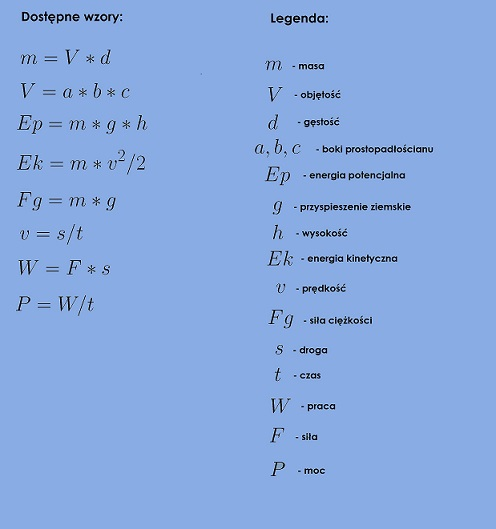
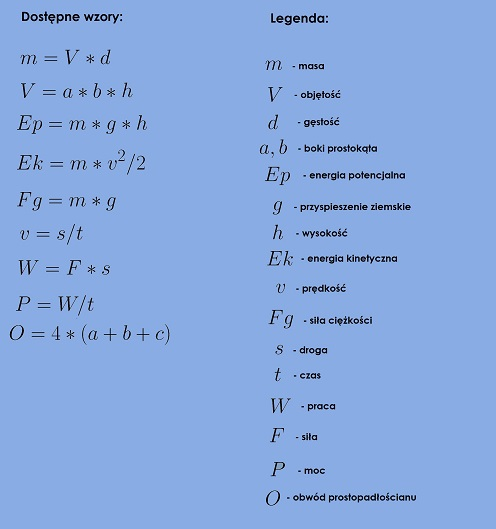
adding perimeter

diff --git a/out/production/FormulaTransformationDesktop/gui/styles.css b/out/production/FormulaTransformationDesktop/gui/styles.css
@@ -54,7 +54,7 @@
 }
 
 .text-area {
-    -fx-font-size: 25;
+    -fx-font-size: 18;
 }
 
 

diff --git a/src/gui/styles.css b/src/gui/styles.css
@@ -54,7 +54,7 @@
 }
 
 .text-area {
-    -fx-font-size: 25;
+    -fx-font-size: 18;
 }
 
 

diff --git a/src/formula/transformation/FormulaTransformer.java b/src/formula/transformation/FormulaTransformer.java
@@ -10,6 +10,7 @@ import java.util.List;
 import java.util.Map;
 
 
+import static formula.transformation.utility.FormulaBuilder.add;
 import static formula.transformation.utility.FormulaBuilder.arg;
 import static formula.transformation.utility.FormulaBuilder.constant;
 import static formula.transformation.utility.FormulaBuilder.div;
@@ -47,6 +48,9 @@ public class FormulaTransformer {
 
         Equalizer power = eq(arg("P"), div(arg("W"), arg("t")));
         formulas.put(Equation.POWER, power);
+
+        Equalizer perimeter = eq(arg("O"), mul(constant(4),add(add(arg("a"), arg("b")), arg("c"))));
+        formulas.put(Equation.PERIMETER, perimeter);
     }
 
     public Map<Equation, Equalizer> getFormulas() {

diff --git a/src/gui/Main.java b/src/gui/Main.java
@@ -14,7 +14,7 @@ public class Main extends Application {
         primaryStage.setTitle("Formula Transformation");
         primaryStage.setScene(new Scene(root, 1200, 900));
         root.getStylesheets().add(getClass().getResource("styles.css").toExternalForm());
-        //primaryStage.setResizable(false);
+        primaryStage.setResizable(false);
         primaryStage.show();
     }
 

diff --git a/src/formula/transformation/Equation.java b/src/formula/transformation/Equation.java
@@ -8,5 +8,6 @@ public enum Equation {
     GRAVITY_FORCE,
     UNIFORM_MOTION,
     WORK,
-    POWER
+    POWER,
+    PERIMETER
 }
